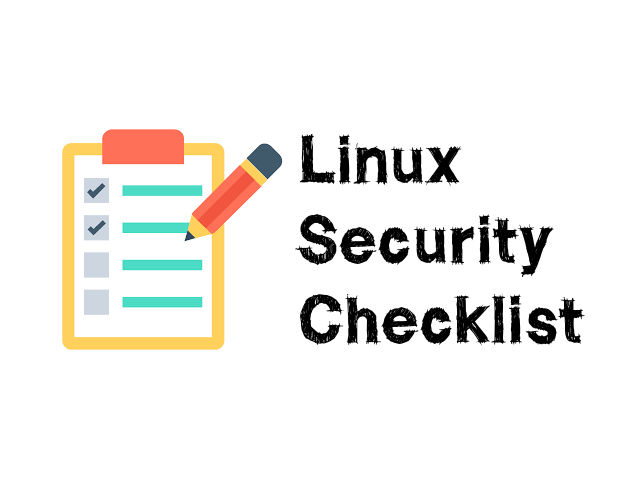
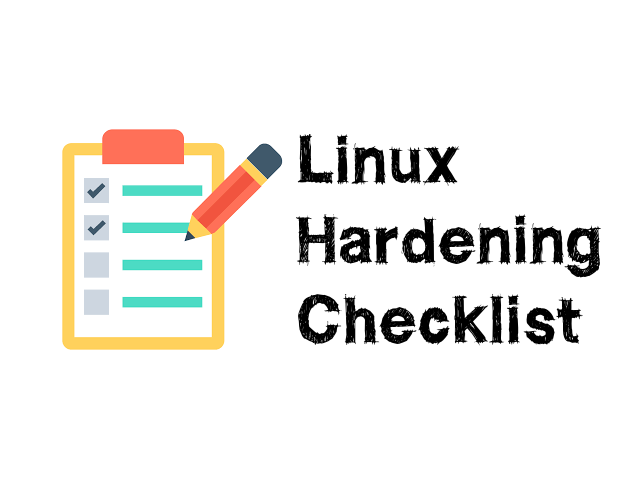
renamed project - signed-off-by: trimstray <trimstray@gmail.com>

Changed region(s): [[0.4688, 0.4375, 0.9375, 0.5938], [0.4688, 0.5938, 0.9062, 0.7188], [0.4688, 0.2812, 0.7188, 0.4062]]

diff --git a/README.md b/README.md
@@ -6,7 +6,7 @@
 <br>
 
 <p align="center">
-  <a href="https://github.com/trimstray/linux-security-checklist/tree/master">
+  <a href="https://github.com/trimstray/linux-hardening-checklist/tree/master">
     <img src="https://img.shields.io/badge/Branch-master-green.svg?longCache=true"
         alt="Branch">
   </a>
@@ -19,7 +19,7 @@
 <div align="center">
   <sub>Created by
   <a href="https://twitter.com/trimstray">trimstray</a> and
-  <a href="https://github.com/trimstray/linux-security-checklist/graphs/contributors">
+  <a href="https://github.com/trimstray/linux-hardening-checklist/graphs/contributors">
     contributors
   </a>
 </div>
